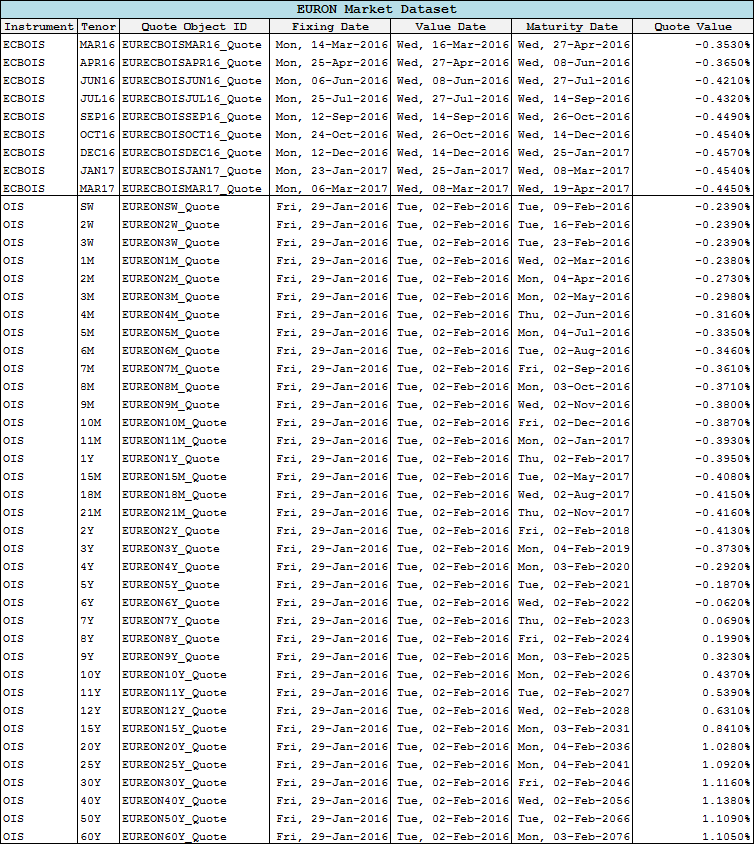
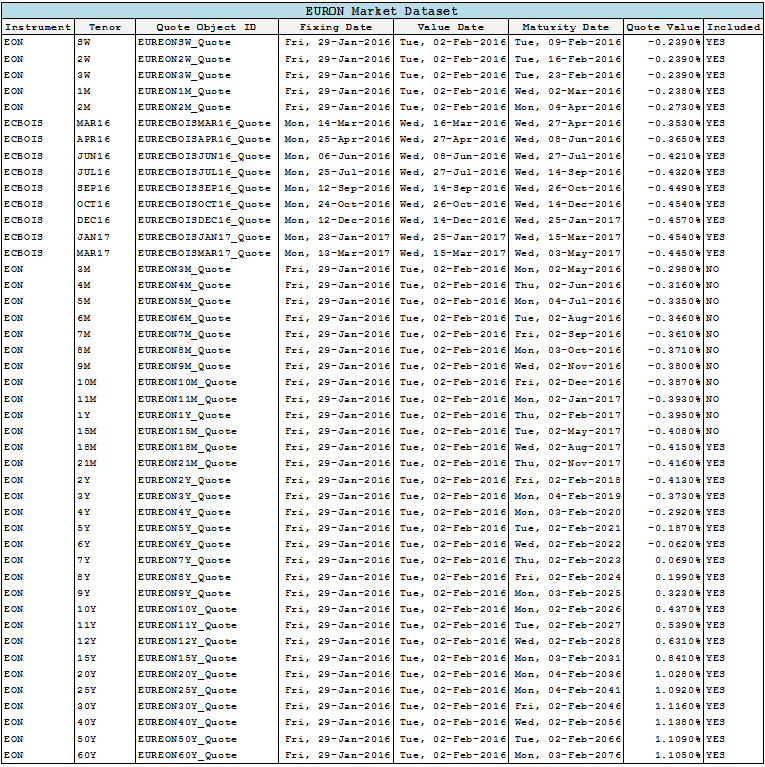
corrections

diff --git a/TESI/Thesis/toptesi-example.tex b/TESI/Thesis/toptesi-example.tex
@@ -492,31 +492,22 @@ This chapter wants to focus on overnight curve construction passing through ever
 %%%CHAPTER3%%%
 
 \chapter{Advanced Overnight Curve Issues} \label{chap:3}
-This chapter aims to analyze and propose solutions to some advanced problems related to the overnight curve calibration. First of all, the attention will be placed on the EUR market and, in particular, on the short-term section where the inclusion of forward start instruments (as the ECB OIS) leads to wide oscillation caused by overlapping instruments. To solve the problem, this work suggest to build a forward meta-instrument called "{\it Stub}" to cover the section between the maturity of the last spot starting OIS and the settlement of the first ECB OIS which implied value can be derived assuming a no-arbitrage condition. To support this solution, a re-pricing error analysis will be presented in order to show that this approach can minimize distortion. This re-pricing analysis will be exploited also in the other issues and consists in using both curves (with and without the solution) to price a wide subset of all ICAP (see \cite{icap}) overnight indexed instruments. The purpose is to demonstrate that using the solutions proposed in this work the ICAP instruments re-pricing will be more accurate which means that the outcome curve quality as been improved. All the analysis will be performed by mean of QuantLibXL 1.8 version \footnote{QuantLib is a C++ free/open-source library for quantitative finance, for more information see \cite{quantlib}}. \\
-The next step will be focused on the overnight curve behaviour. Since empirical evidence shows that the short term section tends to be linear between European Central Bank monetary policy board meeting dates, it is straightforward that, in this context, a log-linear interpolation fits well the curve behaviour. Otherwise, The flat interpolator is consistent till the end of the ECB OIS strip but, after that, assuming constant forward rates becomes quite improbable due to the fact that it is not possible to estimate the ECB monetary policy on a long time frame\footnote{or maybe, in two year, the European Central Bank might not exist anymore}. This is the reason why this work suggest to calibrate the overnight curve by means of a so called: "{\it Mixed Interpolation}" which merges two different interpolation like, for example, a log-linear on discount factors up to a specific date and a cubic spline after it. Finally the results of the mixed interpolation applied on the curve will be presented taking advantage of the same re-pricing analysis explained before.\\
-Moving ahead to the next issue, the work will be extended to both EUR and USD overnight curve. The jumps problem will be treated in order to present a methodology to estimate their size following a similar approach as the one proposed by Burghardt (\cite{burgh}) and recovered by Ametrano-Mazzocchi (\cite{amemaz}) for the EUR market case. This approach will be adapted in order to account also negative jumps, as the one shown in the Fed Funds time series. \\
-Focusing just on the USD market case, the {\it Arithmetic Average Fed Funds OIS} \footnote{Arithmetic FF-OIS as well as the Mixed Interpolation are implemented in latest QuantLib version and exported in QuantLibXL} will be briefly described stressing on the pros and cons of their inclusion in the USD overnight curve bootstrap. \\
-To perform all the EUR market analysis a dataset dated on {\it 29-January-2016} will be used, which is shown in the following figure. 
+This chapter aims to analyze and propose solutions for subtle, but relevant, problems in the overnight curve calibration. The focus will be mainly on the EUR market and, in particular, on the short-term section.
+The first issue examined is related to the inclusion of forward start instruments (as the ECB OIS) that leads to oscillation caused by overlapping instruments: to solve the problem, this work suggest to build a meta-instrument called "{\it Forward Stub}" to cover the section between the maturity of the last spot starting OIS and the settlement of the first ECB OIS which implied value can be derived assuming a no-arbitrage condition. To support this solution, a re-pricing error analysis will be presented in order to show that this approach can minimize distortion. This re-pricing analysis will be exploited also in the other issues and consists in using both curves (with and without the solution) to price a wide subset of all ICAP (see \cite{icap}) overnight indexed instruments. The purpose is to demonstrate that using the solutions proposed in this work the ICAP instruments re-pricing will be more accurate which means that the outcome curve quality as been improved. All the analysis will be performed by mean of QuantLibXL 1.8 version \footnote{QuantLib is a C++ free/open-source library for quantitative finance, for more information see \cite{quantlib}}.
+
+The next issue is the empirical evidence that the forward overnight rates are generally constant between ECB monetary policy board meeting dates: because of this, a log-linear discount interpolation would be a good fit. Otherwise, flat forward rates might be reasonable up to the end of the ECB OIS strip (usually 2 years) but hardly realistic after that. This is the rationale to suggest the use of a "{\it Mixed Interpolation}" which merges the two different interpolation regimes for the short and long term of the overnight rate curve. Finally the results of the mixed interpolation applied on the curve will be presented taking advantage of the same re-pricing analysis explained before.
+
+The next issue is how to deal with jumps, estimating their positive or negative sizes. Finally the approximation necessary to include {\it Arithmetic Average OIS} \footnote{Arithmetic FF-OIS as well as the Mixed Interpolation are implemented in latest QuantLib version and exported in QuantLibXL} will be described, as relevant for the USD overnight curve bootstrap. \\
+To perform analysis a EUR market dataset as of January 29, 2016 (spot date February 2, 2016) is used \ref{fig:dataset}. Using all market instruments shown in Figure \ref{fig:dataset} for curve bootstrapping might lead to distorsive overfitting: that is why only the most liquid subset of quotes is used. While instruments included in the bootstrapping are perfectly re-priced by construction, the rest will have re-pricing errors. The validation of this work's analysis will mostly consist in the minimization of the excluded instruments re-pricing errors, while obtaining good properties for the overall curve.
+
 
 \begin{figure}[!h]
 \centering
-\includegraphics[width=0.9\textwidth]{images/dataset.png}
+\includegraphics[width=1\textwidth]{images/dataset.png}
 \caption{Market dataset used to perform the EUR analysis.}
 \label{fig:dataset}
 \end{figure}
 
-\newpage
-In order to avoid overfitting distorsion, all overnight curves are bootstrapped starting from a subset of all market quotes shown in Figure \ref{fig:dataset} and using a $(t+2)$ spot date as the settlement date. \\
-It is useful to remember that, while an included instruments is always re-priced perfectly, all the others are interpolated and, as a consequence, will show re-pricing errors. The validation of this work's analysis will pass through the proof that the solutions proposed permits to minimize the out-of-curve instruments re-pricing errors. The overnight curve composition is visible in the next figure.
-
-\begin{figure}[!h]
-\centering
-\includegraphics[width=0.9\textwidth]{images/subset.png}
-\caption{All the instruments included in the EUR overnight curve calibration.}
-\label{fig:subset}
-\end{figure}
-    
-    \newpage
     \section{Forward Stub} \label{section:3.1}
     Starting from the first point, a particular overnight curve problem due to the manage of both spot starting instruments (like OIS) and forward start instruments (like ECB OIS) in the bootstrap algorithm will be presented. The problem occurs since spot starting OIS maturity dates, in most of the cases, does not coincide with the settlement date of the first ECB OIS and this leads to an overlapping instruments problem. Since the calibration algorithm must re-price perfectly all the included market quotes, the overlapping instruments force the calibrator to re-price both of them and, in order to respect this constrain, it will introduce wide oscillation in the curve shape. \\ 
     To solve this problem different approach can be followed:
@@ -531,7 +522,7 @@ It is useful to remember that, while an included instruments is always re-priced
         \label{fig:overlapping}
         \end{figure}
         
-        The example shows that OIS with 2-month maturity ({\it 4 April 2016}) overlaps the first ECB OIS with settlement ({\it 16 March 2016}). This 18 days year fraction cause oscillations in the curve's shape and, as a consequence, an impact on not included instruments repricing errors. This errors are also deeply connected to the first section curve's shape; in fact this solution may leads to negligible repricing errors only if spot starting OIS and first ECB OIS presents close values (which means that the first curve section tends to be flat). Otherwise, empirical evidence shows that, sometimes, market idiosyncrasies can affect first section curve's shape making it highly downward/upward sloping (as the Figure \ref{fig:overlapping} suggest). In this particular cases also the overlapping solution fails leading to relevant errors as it will be shown in \ref{subsection:3.2.2}.
+        The example shows that OIS with 2-month maturity ({\it 4 April 2016}) overlaps the first ECB OIS with settlement ({\it 16 March 2016}). This 18 days year fraction cause oscillations in the curve's shape and, as a consequence, an impact on not included instruments repricing errors. This errors are also deeply connected to the first section curve's shape; in fact this solution may leads to negligible repricing errors only if spot starting OIS and first ECB OIS presents close values (which means that the first curve section tends to be flat). Otherwise, empirical evidence shows that, sometimes, market idiosyncrasies can affect first section curve's shape making it highly downward/upward sloping (as the Figure \ref{fig:overlapping} suggest). In this particular cases also the overlapping solution fails leading to relevant errors \ref{subsection:3.1.2}.
         
         \item{} Another possible solution may be to exclude from the bootstrap the overlapping OIS (the 2-month maturity one in reference to the preceding example). The benefit of this choice is to avoid overlapping instruments but implies that there will be a not covered curve section, as visible in Figure \ref{fig:exclude}, in which the bootstrap algorithm does not have any information related to the curve shape. The impact of this solution on repricing errors is very bad and so it is not advisable to use it. \\
         
@@ -720,7 +711,7 @@ It is useful to remember that, while an included instruments is always re-priced
        \caption{December 2014 turn of year effect shown on Bloomberg terminal.}
        \label{fig:turnofyear}
        \end{figure}
-       However, this definition is not consistent for the U.S. case in which market evidence shows negative jumps and so American market participants tend to have a decreasing necessity of liquidity every end-of-month. The most relevant rate jump is the so called {\it Turn-Of-Year} (TOY) effect observable in the last working day in market quotations spanning across the end of the year. Other Euribor indexes with longer tenor display smaller jumps when their maturity crosses the same border; in fact jumps amplitude decrease as the rate tenor increase.\\
+       However, this definition is not consistent for the U.S. case in which market evidence shows negative jumps and so American market participants tend to have a decreasing necessity of liquidity every end-of-month. The most relevant rate jump is the so called {\it Turn-Of-Year} (TOY) effect observable in the last working day in market quotations spanning across the end of the year. Other Euribor indexes with longer tenor display smaller jumps when their maturity crosses the same border; in fact jumps amplitude decrease as the rate tenor increase. \\
        To estimate jumps sizes Ametrano and Mazzocchi (\cite{amemaz}) propose a four-step approach similar to the one used by Burghardt (\cite{burgh}):
        \begin{enumerate}
            \item The first step is to built an overnight curve calibrating by means of a linear/flat interpolation and including all liquid market quotes available (high pillar density is strictly recommended); 
@@ -802,8 +793,13 @@ It is useful to remember that, while an included instruments is always re-priced
         \newpage
         It is clear that, since the piecewise flat steps of the curve are given by market quotes which are the integral of instantaneous forward rates between an interval $(t\ped{1},t\ped{2})$, if this integral must account a deep below level point, the residual part is shifted up in order to maintain the integral value equal.\\
         
-\section{Conclusion}\label{section:3.4}  
-        
+\section{Conclusions}\label{section:3.4}  
+This chapter faces 3 advanced overnight curve problems and presents some possible solutions. First of all, this work proposes to build a forward Stub in order to fix the overlapping instruments problem caused by the not perfect concatenation between spot starting OIS and ECB dated OIS. The results of this solution have been presented taking advantage of a repricing errors analysis which shows that excluding the overlapping instrument and including the forward Stub improve the curve's quality minimizing all the out-of-curve instruments errors.
+
+Moving ahead to the next point, the mixed interpolation has been presented as a particular interpolator which merge two different techniques. In order to describe the overnight curve behaviour in the most accurate way, this work proposes to mix a linear interpolation on log-discounts for the short term curve's section with a monotone cubic natural spline for the mid-long term section. Using the same repricing approach proposed in the previous issue it has been shown that this configuration leads to a very good curve's fit which is better than the one obtained interpolating the whole curve with a log-linear interpolation or a monotone cubic natural spline interpolation. 
+
+Finally the jumps problem for the EUR market and the USD market has been shown. Following the best practice proposed by Ametrano-Mazzocchi (\cite{amemaz}) based on the  Burghardt approach (\cite{burgh}) this work proposed a simple way to estimate negative jumps as the ones visible in the Fed Fund time series.  
+
 %%%CONCLUSION%%%
 
 %\chapter*{Conclusion} \label{chap:Concl}
@@ -814,7 +810,6 @@ It is useful to remember that, while an included instruments is always re-priced
 
 \newpage
 \appendix
-
 \begin{appendices}
   \renewcommand\thetable{\thesection\arabic{table}}
   \renewcommand\thefigure{\thesection\arabic{figure}}
@@ -927,9 +922,12 @@ This devoted to introduce some basic and fundamental interest rate rule in order
 
 \bibitem{amebianc1} F.M.~Ametrano, M. ~Bianchetti, {\em Everything you always wanted to know about multiple interest rate curve bootstrapping but were afraid to ask}, SSRN, February 2013.\\
 
-\bibitem{amebianc2} F.M.~Ametrano, M. ~Bianchetti, {\em Bootstrapping the illiquidity, multiple yield curves construction for market coherent forward rates estimation}, SSRN, March 2009.\\
+\bibitem{amebianc2} F.M.~Ametrano, M. ~Bianchetti, {\em Bootstrapping the illiquidity, multiple yield curves construction for market coherent forward rates estimation},
+SSRN, March 2009.\\
 
-\bibitem{ECB} {\em European Central Bank, schedules for the meetings of the Governing Council}, http://www.ecb.europa.eu/events/calendar/mgcgc/html/index.en.html.
+\bibitem{henrard} M.~Henrard, {\em Interest Rate Modelling in the Multi-curve Framework, Foundations, Evolution and Implementation}, PALGRAVE MACMILLAN, 2014. \\
+
+\bibitem{ECB} {\em European Central Bank, schedules for the meetings of the Governing Council}, http://www.ecb.europa.eu/events/calendar/mgcgc/html/index.en.html. \\
 
 \bibitem{haganwest} P.H.~Hagan, G. ~West, {\em Interpolation methods for curve construction}, Applied Mathematical Finance, 13(2):89-129, June 2006.\\
 
@@ -939,17 +937,17 @@ This devoted to introduce some basic and fundamental interest rate rule in order
 
 \bibitem{quantlib} {\em QuantLib, the free/open-source object oriented c++ financial library}, https//:www.quantlib.org/ \\
 
-\bibitem{icap} {\em ICAP, the leading markets global broking.}, https://www.icap.com/ \\
+\bibitem{marchioro} M.~Marchioro, {\em Pricing simple interest-rate derivatives}, SSRN, July 2008.\\
 
-\bibitem{burgh} G.~Burghardt, S. Kirshner {\em One good turn}, CME Interest Rate Products Advanced Topics. Chicago: Chicago Mercatile Exchange,2002\\
+\bibitem{icap} {\em ICAP, the leading markets global broking.}, https://www.icap.com/ \\
 
 \bibitem{amemaz} F.M.~Ametrano, P. ~Mazzocchi, {\em EONIA Jumps and Proper Euribor Forwarding: The Case of Synthetic Deposits in Legacy Discount-Based Systems}, https://speakerdeck.com/nando1970/eonia-jumps-and-proper-euribor-forwarding, December 2014.\\
 
-\bibitem{takada} K.~Takada, {\em Valuation of Arithmetic Average of Fed Funds Rates and Construction of the US dollar Swap Yield Curve}, http://www.javaquant.net/papers/AverageIndexSwap.pdf , September 2011.\\
+\bibitem{burgh} G.~Burghardt, S. Kirshner {\em One good turn}, CME Interest Rate Products Advanced Topics. Chicago: Chicago Mercatile Exchange,2002\\
 
 \bibitem{hull} J.C.~Hull, {\em Option, Futures and Other Derivatives ($8^{th}\mbox{edition}$)}, Prentice Hall, Cap.30-Pag.682, 2012.\\
 
-\bibitem{hullwhite} J.~Hull, A. ~White, {\em Valuing derivatives securities using the explicit finite difference method}, Journal of Financial and Quantitative Analysis, Volume 25, Issue 1, 87-100, March 1990.\\
+\bibitem{opengamma} {\em Interest rate instruments and market conventions guide}, Quantitative research, OpenGamma, December 2013.\\
 
 \end{thebibliography}
 
